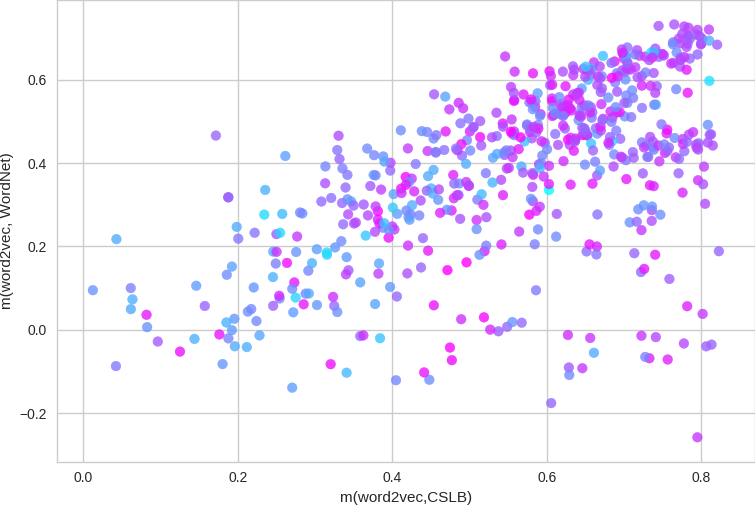
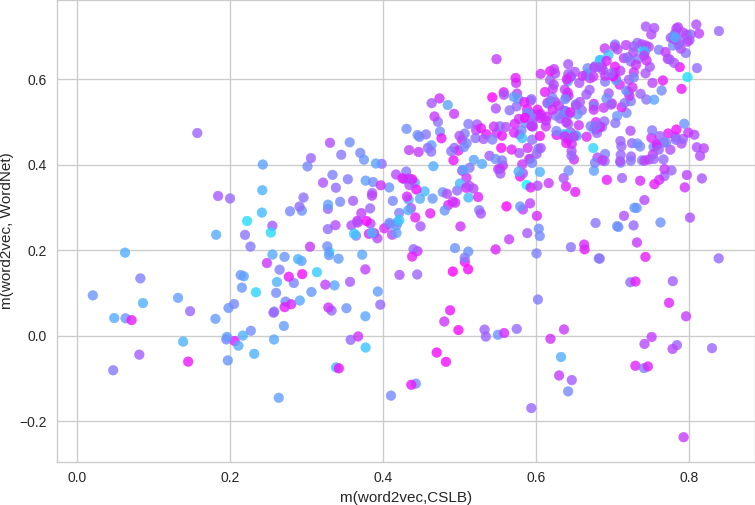
word2vec feature fit: increase frequency threshold to get better neighbor analysis

diff --git a/subgraphs/feature_fit.py b/subgraphs/feature_fit.py
@@ -51,7 +51,7 @@ elif PIVOT == "cc":
     MIN_WORD_COUNT = 300
 elif PIVOT == "word2vec":
     INPUT = "../word2vec/GoogleNews-vectors-negative300.bin"
-    MIN_WORD_COUNT = 300
+    MIN_WORD_COUNT = 300 * 30
 elif PIVOT == "mygiga":
     INPUT = "/john0/scr1/jgauthie/vectors.en.w2v.txt"
     INPUT_FVOCAB = "/john0/scr1/jgauthie/vocab.txt"
